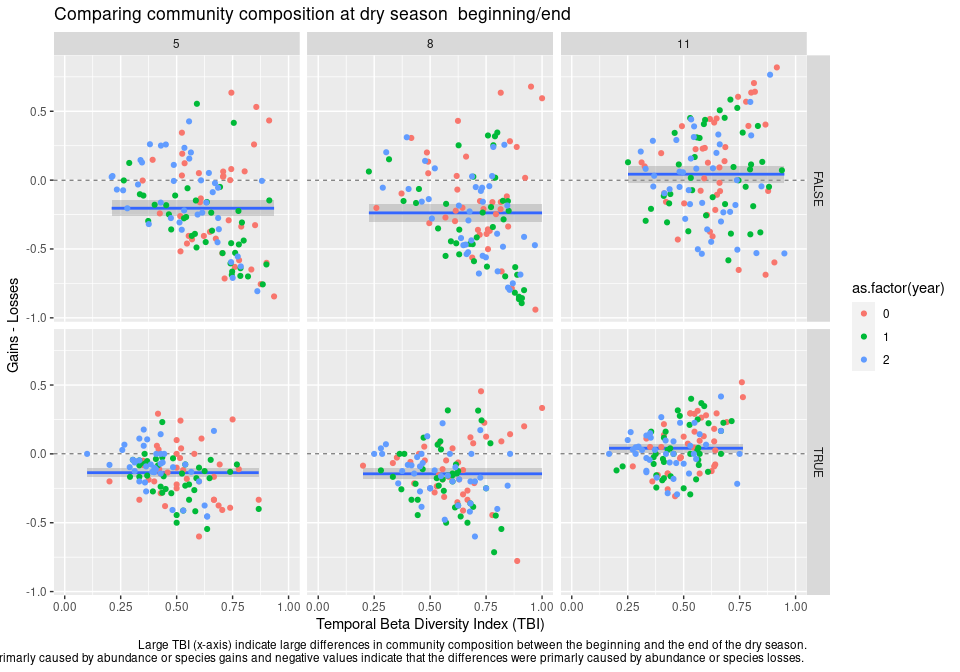
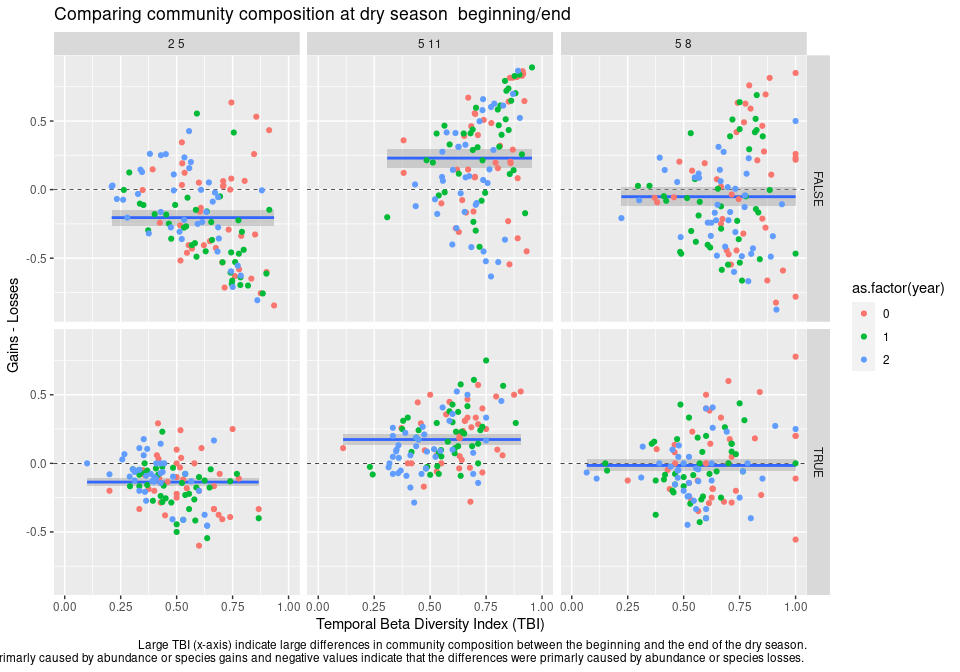
Update beta-diversity comparisons

diff --git a/notebooks/beta-diversity-index.md b/notebooks/beta-diversity-index.md
@@ -61,8 +61,8 @@ change_matrices <- catch_full %>%
 
 combinations <- list(
   `2.5` = c("2", "5"), 
-  `2.8` = c("2", "8"), 
-  `2.11` = c("2", "11")
+  `5.8` = c("5", "8"), 
+  `5.11` = c("5", "11")
 )
 
 type <-  list(presence_absence = TRUE, abundance = FALSE)
@@ -107,7 +107,7 @@ tbi <- cross2(combinations, type) %>%
 
 ``` r
 type_combinations <- cross2(combinations, type) %>%
-  map_df(~tibble(comparison = as.numeric(.[[1]][2]), 
+  map_df(~tibble(comparison = paste(.[[1]][1], .[[1]][2], collapse = "."), 
                  pa_tr = .[[2]]), .id = "type")
 
 tbi_df <- tbi %>%
